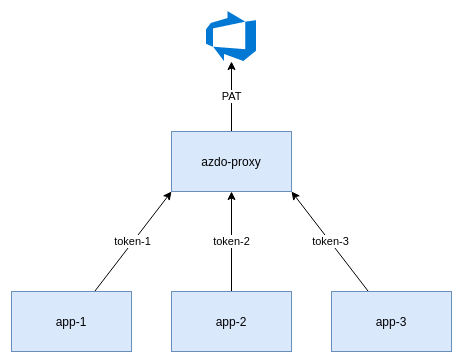
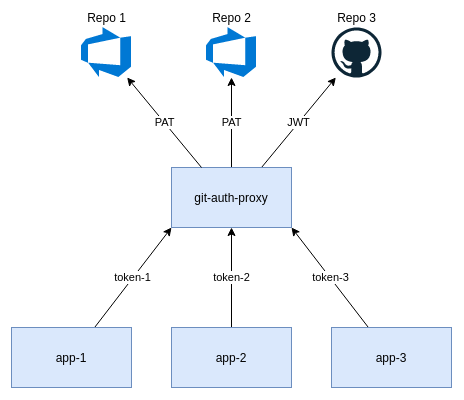
Fix repo rename (#39)
* Fix go imports

* Remove legacy secrets

* Renmae ci and chart names

* Fix logger na dmetrics prefix

* Update docs

diff --git a/pkg/token/token_writer.go b/pkg/token/token_writer.go
@@ -14,7 +14,17 @@ import (
 	"k8s.io/client-go/kubernetes"
 	"k8s.io/client-go/tools/cache"
 
-	"github.com/xenitab/azdo-proxy/pkg/auth"
+	"github.com/xenitab/git-auth-proxy/pkg/auth"
+)
+
+const (
+	projectId  = "git-auth-proxy"
+	idLabelKey = "git-auth-proxy.xenit.io/id"
+
+	usernameValue = "git"
+	usernameKey   = "username"
+	passwordKey   = "password"
+	tokenKey      = "token"
 )
 
 type TokenWriter struct {
@@ -22,13 +32,6 @@ type TokenWriter struct {
 	client kubernetes.Interface
 	authz  *auth.Authorizer
 }
-
-const (
-	usernameValue = "git"
-	usernameKey   = "username"
-	passwordKey   = "password"
-	tokenKey      = "token"
-)
 
 func NewTokenWriter(logger logr.Logger, client kubernetes.Interface, authz *auth.Authorizer) *TokenWriter {
 	return &TokenWriter{
@@ -41,16 +44,32 @@ func NewTokenWriter(logger logr.Logger, client kubernetes.Interface, authz *auth
 func (t *TokenWriter) Start(ctx context.Context) error {
 	t.logger.Info("Starting token writer")
 
-	// create label selector string
+	// remove legacy secrets created by azdo-proxy
 	labelSelector := metav1.LabelSelector{MatchLabels: map[string]string{"app.kubernetes.io/managed-by": "azdo-proxy"}}
 	labelMap, err := metav1.LabelSelectorAsMap(&labelSelector)
 	if err != nil {
 		return err
 	}
 	selectorString := labels.SelectorFromSet(labelMap).String()
-
-	// clean up all secrets managed by azdo-proxy
 	oldSecrets, err := t.client.CoreV1().Secrets("").List(ctx, metav1.ListOptions{LabelSelector: selectorString})
+	if err != nil {
+		return fmt.Errorf("could not list secrets: %w", err)
+	}
+	for i := range oldSecrets.Items {
+		err := t.deleteSecret(ctx, oldSecrets.Items[i].Name, oldSecrets.Items[i].Namespace)
+		if err != nil {
+			return err
+		}
+	}
+
+	// clean up all secrets managed by git-auth-proxy
+	labelSelector = metav1.LabelSelector{MatchLabels: map[string]string{"app.kubernetes.io/managed-by": projectId}}
+	labelMap, err = metav1.LabelSelectorAsMap(&labelSelector)
+	if err != nil {
+		return err
+	}
+	selectorString = labels.SelectorFromSet(labelMap).String()
+	oldSecrets, err = t.client.CoreV1().Secrets("").List(ctx, metav1.ListOptions{LabelSelector: selectorString})
 	if err != nil {
 		return fmt.Errorf("could not list secrets: %w", err)
 	}
@@ -118,7 +137,7 @@ func (t *TokenWriter) secretDelete(obj interface{}) {
 		return
 	}
 
-	id, ok := secret.ObjectMeta.Labels["azdo-proxy.xenit.io/id"]
+	id, ok := secret.ObjectMeta.Labels[idLabelKey]
 	if !ok {
 		t.logger.Error(fmt.Errorf("id label not found"), "metadata missing in secret labels", "name", secret.Name, "namespace", secret.Namespace)
 		return
@@ -180,7 +199,7 @@ func (t *TokenWriter) deleteSecret(ctx context.Context, name string, namespace s
 
 func createSecretLabels(id string) map[string]string {
 	return map[string]string{
-		"app.kubernetes.io/managed-by": "azdo-proxy",
-		"azdo-proxy.xenit.io/id":       id,
+		"app.kubernetes.io/managed-by": projectId,
+		idLabelKey:                     id,
 	}
 }

diff --git a/pkg/server/server.go b/pkg/server/server.go
@@ -11,7 +11,7 @@ import (
 	"github.com/slok/go-http-metrics/middleware"
 	"github.com/slok/go-http-metrics/middleware/std"
 
-	"github.com/xenitab/azdo-proxy/pkg/auth"
+	"github.com/xenitab/git-auth-proxy/pkg/auth"
 )
 
 type Server struct {
@@ -23,7 +23,7 @@ func NewServer(logger logr.Logger, port string, authz *auth.Authorizer) *Server 
 	router := mux.NewRouter()
 	prometheus_mdlw := middleware.New(middleware.Config{
 		Recorder: prommetrics.NewRecorder(prommetrics.Config{
-			Prefix: "azdo_proxy",
+			Prefix: "git_auth_proxy",
 		}),
 	})
 	router.Use(std.HandlerProvider("", prometheus_mdlw))
@@ -33,7 +33,7 @@ func NewServer(logger logr.Logger, port string, authz *auth.Authorizer) *Server 
 	srv := &http.Server{Addr: port, Handler: router}
 
 	return &Server{
-		logger: logger.WithName("azdo-server"),
+		logger: logger.WithName("git-auth-proxy"),
 		srv:    srv,
 	}
 }

diff --git a/main.go b/main.go
@@ -22,10 +22,10 @@ import (
 	"k8s.io/client-go/rest"
 	"k8s.io/client-go/tools/clientcmd"
 
-	"github.com/xenitab/azdo-proxy/pkg/auth"
-	"github.com/xenitab/azdo-proxy/pkg/config"
-	"github.com/xenitab/azdo-proxy/pkg/server"
-	"github.com/xenitab/azdo-proxy/pkg/token"
+	"github.com/xenitab/git-auth-proxy/pkg/auth"
+	"github.com/xenitab/git-auth-proxy/pkg/config"
+	"github.com/xenitab/git-auth-proxy/pkg/server"
+	"github.com/xenitab/git-auth-proxy/pkg/token"
 )
 
 type cfg struct {

diff --git a/pkg/token/token_writer_test.go b/pkg/token/token_writer_test.go
@@ -10,8 +10,8 @@ import (
 	v1 "k8s.io/apimachinery/pkg/apis/meta/v1"
 	"k8s.io/client-go/kubernetes/fake"
 
-	"github.com/xenitab/azdo-proxy/pkg/auth"
-	"github.com/xenitab/azdo-proxy/pkg/config"
+	"github.com/xenitab/git-auth-proxy/pkg/auth"
+	"github.com/xenitab/git-auth-proxy/pkg/config"
 )
 
 func TestBasic(t *testing.T) {

diff --git a/pkg/auth/azure_devops_test.go b/pkg/auth/azure_devops_test.go
@@ -5,7 +5,7 @@ import (
 
 	"github.com/stretchr/testify/require"
 
-	"github.com/xenitab/azdo-proxy/pkg/config"
+	"github.com/xenitab/git-auth-proxy/pkg/config"
 )
 
 func getAzureDevOpsAuthorizer() *Authorizer {

diff --git a/pkg/auth/github_test.go b/pkg/auth/github_test.go
@@ -6,7 +6,7 @@ import (
 	"testing"
 
 	"github.com/stretchr/testify/require"
-	"github.com/xenitab/azdo-proxy/pkg/config"
+	"github.com/xenitab/git-auth-proxy/pkg/config"
 )
 
 type MockGitHubTokenSource struct {

diff --git a/pkg/auth/auth.go b/pkg/auth/auth.go
@@ -8,7 +8,7 @@ import (
 	"net/url"
 	"regexp"
 
-	"github.com/xenitab/azdo-proxy/pkg/config"
+	"github.com/xenitab/git-auth-proxy/pkg/config"
 )
 
 type Provider interface {

diff --git a/README.md b/README.md
@@ -1,38 +1,40 @@
-# Azure DevOps Proxy
+# Git Auth Proxy
 
-[![Go Report Card](https://goreportcard.com/badge/github.com/XenitAB/azdo-proxy)](https://goreportcard.com/report/github.com/XenitAB/azdo-proxy)
-[![Docker Repository on Quay](https://quay.io/repository/xenitab/azdo-proxy/status "Docker Repository on Quay")](https://quay.io/repository/xenitab/azdo-proxy)
+[![Go Report Card](https://goreportcard.com/badge/github.com/XenitAB/git-auth-proxy)](https://goreportcard.com/report/github.com/XenitAB/git-auth-proxy)
 
-Proxy to allow sharing of a Azure DevOps Personal Access Token in a Kubernetes cluster.
+Proxy to allow multi tenant sharing of GitHub and Azure DevOps credentials in Kubernetes.
 
-Azure DevOps allows the use of Personal Access Tokens (PAT) to authenticate access to both its
-API and Git repositories. Sadly it does not provide an API to create new PAT, making the process
-of automation cumbersome if multiple tokens are needed with limited scopes.
+Most Git providers offer mutliple ways of authenticating when cloning repositories and communicating with their API. These authentication methods are usually tied to a specific user and in the best
+case offer the ability to scope the permissions. The lack of organization API keys leads to solutions like GitHubs soltution to [create a machine user](https://docs.github.com/en/developers/overview/managing-deploy-keys#machine-users)
+that has limited permissions. The need for machine user accounts is especially important for GitOps deployment flows with projects like [Flux](https://docs.github.com/en/developers/overview/managing-deploy-keys#machine-users)
+and [ArgoCD](https://github.com/argoproj/argo-cd). These tools need an authentication method that supports accessing multiple repositories, without sharing the global credentials with all users.
 
 <p align="center">
   <img src="./assets/architecture.png">
 </p>
 
-Azure DevOps Proxy (azdo-proxy) is an attempt to solve this issue by enabling a single PAT
-to be shared by many applications, while at the same time limiting access for each application.
-Tokens are generated automatically and written as a Kubernetes secrets to one or multiple namespaces,
-the application just needs to mount the secret and use it when communicating with the proxy.
-Requests are sent to azdo-proxy together with a token, which gives access to a specific repository.
-The request is checked and if allowed forwarded to Azure DevOps with the PAT appended to the request.
+Git Auth Proxy attemps to solve this problem by implementing its own authentication and authorization layer inbetween the client and the Git provider. It works by generating static tokens that are
+specific to a Git repository. These tokens are then written to a Kubernetes secret in the Kubernetes namespaces which should have access to the repositories. When a repository is cloned through the
+proxy, the token will be checked agains the repository cloned, and if valid it will be replaced with the correct credentials. The request will be denied if a token is used to clone any other
+repository which is does not have access to.
 
 ## How To
 
-Start off by [creating a new PAT](https://docs.microsoft.com/en-us/azure/devops/organizations/accounts/use-personal-access-tokens-to-authenticate?view=azure-devops&tabs=preview-page) as it has to be given to the proxy.
+The proxy reads its configuration from a JSON file. It contains a list of repositories that can be accessed through the proxy and the Kubernetes namespaces which should receive a Secret.
 
-The proxy reads its configuration from a JSON file. The file will contain the PAT used to authenticate
-requests with, the Azure DevOps organization, and a list of repositories that can be accessed through
-the froxy from the specified namespaces.
+When using Azure DevOps a [PAT](https://docs.microsoft.com/en-us/azure/devops/organizations/accounts/use-personal-access-tokens-to-authenticate?view=azure-devops&tabs=preview-page) has to be
+configured for Git Auth Proxy to append to authorized requests.
+
 ```json
 {
   "organizations": [
     {
+      "provider": "azuredevops",
+      "azuredevops": {
+        "pat": "<PAT>"
+      },
+      "host": "dev.azure.com",
       "name": "xenitab",
-      "pat": "foobar",
       "repositories": [
         {
           "name": "fleet-infra",
@@ -48,42 +50,81 @@ the froxy from the specified namespaces.
 }
 ```
 
-Add the Helm repository and install the chart, be sure to set the config content.
-```shell
-helm repo add https://xenitab.github.io/azdo-proxy/
-helm install azdo-proxy --set config=<config>
+When using GitHub a [GitHub Application](https://docs.github.com/en/developers/apps) has to be created and installed. The PEM key needs to be extracted and passed as a base64 endoded string in the
+configuration file. Note that the project field is not required when using GitHub as projects do not exists in GitHub.
+
+```json
+{
+  "organizations": [
+    {
+      "provider": "github",
+      "github": {
+        "appID": 123,
+        "installationID: 123,
+        "privateKey: "<BASE64>"
+      },
+      "host": "github.com",
+      "name": "xenitab",
+      "repositories": [
+        {
+          "name": "fleet-infra",
+          "namespaces": [
+            "foo",
+            "bar"
+          ]
+        }
+      ]
+    }
+  ]
+}
 ```
 
-There should now be a azdo-proxy Pod and Service in the cluster, ready to proxy traffic.
+Add the Helm repository and install the chart, be sure to set the config content.
+
+```shell
+helm repo add https://xenitab.github.io/git-auth-proxy/
+helm install git-auth-proxy --set config=<config>
+```
+
+There should now be a `git-auth-proxy` Deployment and Service in the cluster, ready to proxy traffic.
 
 ### Git
 
-Cloning a repository through the proxy is not too different from doing so directly from Azure DevOps.
-The only limitation is that it is not possible to clone through ssh, as azdo-proxy only proxies HTTP traffic.
-To clone the repository `repo-1` [get the clone URL from the repository page](https://docs.microsoft.com/en-us/azure/devops/repos/git/clone?view=azure-devops&tabs=visual-studio#get-the-clone-url-to-your-repo).
-Then replace the host part of the URL with `azdo-proxy` and add the token as a basic auth parameter. The result should be similar to below.
+Cloning a repository through the proxy is not too different from doing so directly from GitHub or Azure DevOps. The only limitation is that it is not possible to clone through ssh, as Git Auth Proxy
+only proxies HTTP traffic. To clone the repository `repo-1` [get the clone URL from the repository page](https://docs.microsoft.com/en-us/azure/devops/repos/git/clone?view=azure-devops&tabs=visual-studio#get-the-clone-url-to-your-repo).
+Then replace the host part of the URL with `git-auth-proxy` and add the token as a basic auth parameter. The result should be similar to below.
+
 ```shell
-git clone http://<token-1>@azdo-proxy/org/proj/_git/repo-1
+git clone http://<token-1>@git-auth-proxy/org/proj/_git/repo-1
 ```
 
 ### API
 
-Authenticated API calls can also be done through the proxy. Currently only repository specific
-requests will be permitted. This may change in future releases. As an example execute the
-following command to list all pull requests in the repository `repo-1`.
+API calls can also be done through the proxy. Currently only repository specific requests will be permitted as authorization is done per repository. This may change in future releases.
+
+#### GitHub
+
+The proxy assumes that the requests sent to it are in a GitHub enterprise format due to the way GitHub clients behave when configured with a host that is not `github.com`. The main difference between
+GitHub Enterprise and non GitHub Enterprise is the API format. The GitHub Enterprise API expects all requests to the API to have the prefix `/api/v3/` while non GitHub Enterprise API requests are sent
+to the host `api.github.com`.
+
+#### Azure DevOps
+
+Execute the following command to list all pull requests in the repository `repo-1` using the local token to authenticate to the proxy.
+
 ```shell
-curl http://<token-1>@azdo-proxy/org/proj/_apis/git/repositories/repo-1/pullrequests?api-version=5.1
+curl http://<token-1>@git-auth-proxy/org/proj/_apis/git/repositories/repo-1/pullrequests?api-version=5.1
 ```
 
 > :warning: **If you intend on using a language specific API**: Please read this!
 
 Some APIs built by Microsoft, like [azure-devops-go-api](https://github.com/microsoft/azure-devops-go-api), will make a request to the [Resource Areas API](https://docs.microsoft.com/en-us/azure/devops/extend/develop/work-with-urls?view=azure-devops&tabs=http#how-to-get-an-organizations-url)
-which returns a list of location URLs for a specific organization. They will then use those URLs
-when making additional requests, skipping the proxy. To avoid this you need to explicitly create
-your client instead of allowing it to be created automatically.
+which returns a list of location URLs for a specific organization. They will then use those URLs when making additional requests, skipping the proxy. To avoid this you need to explicitly create your
+client instead of allowing it to be created automatically.
 
 In the case of Go you should create a client in the following way.
-```golang
+
+```go
 package main
 
 import (
@@ -92,8 +133,8 @@ import (
 )
 
 func main() {
-  connection := azuredevops.NewAnonymousConnection("http://azdo-proxy")
-  client := connection.GetClientByUrl("http://azdo-proxy")
+  connection := azuredevops.NewAnonymousConnection("http://git-auth-proxy")
+  client := connection.GetClientByUrl("http://git-auth-proxy")
   gitClient := &git.ClientImpl{
     Client: *client,
   }
@@ -101,7 +142,8 @@ func main() {
 ```
 
 Instead of the cleaner solution which would ignore the proxy.
-```golang
+
+```go
 package main
 
 import (
@@ -112,7 +154,7 @@ import (
 )
 
 func main() {
-  connection := azuredevops.NewAnonymousConnection("http://azdo-proxy")
+  connection := azuredevops.NewAnonymousConnection("http://git-auth-proxy")
   ctx := context.Background()
   gitClient, _ := git.NewClient(ctx, connection)
 }
